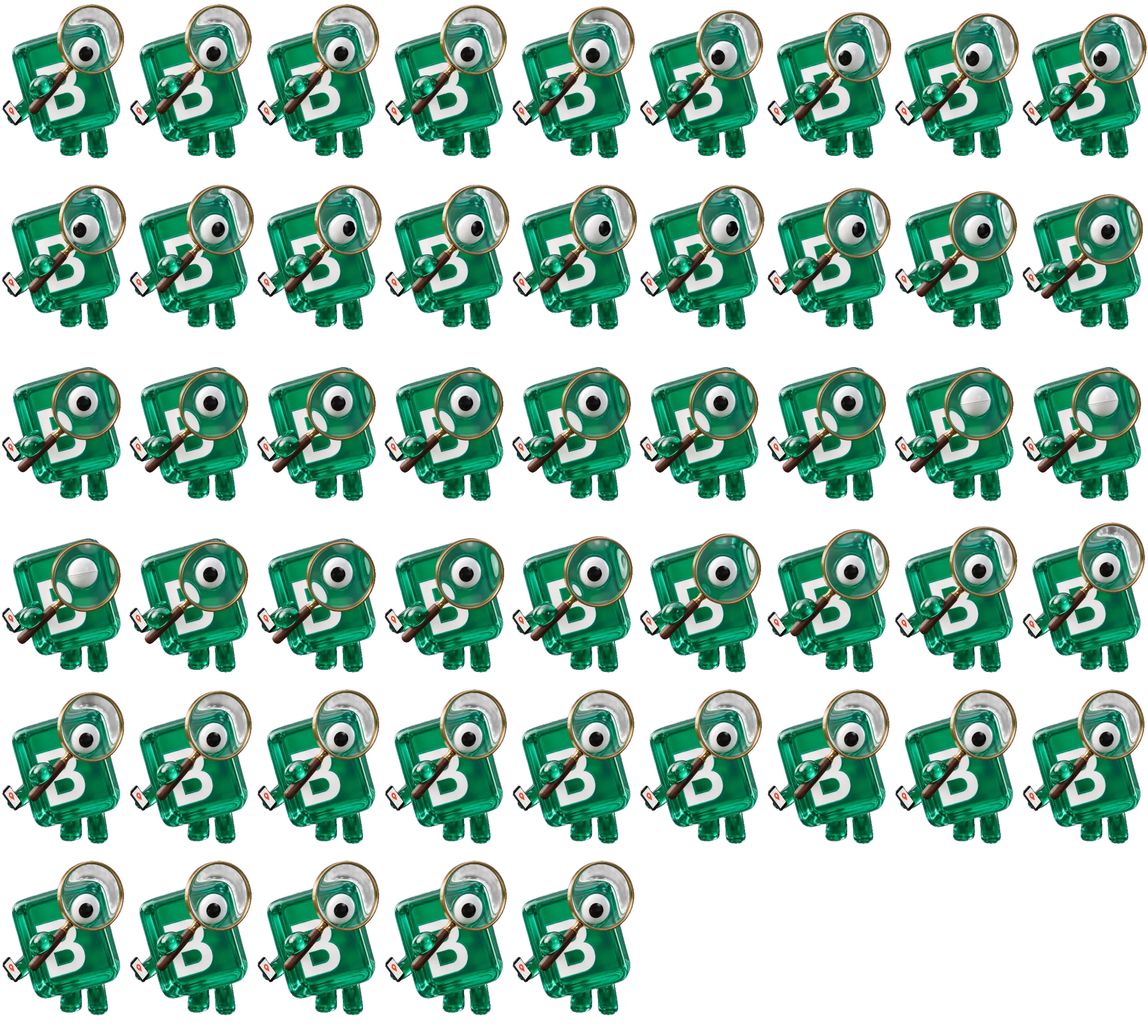
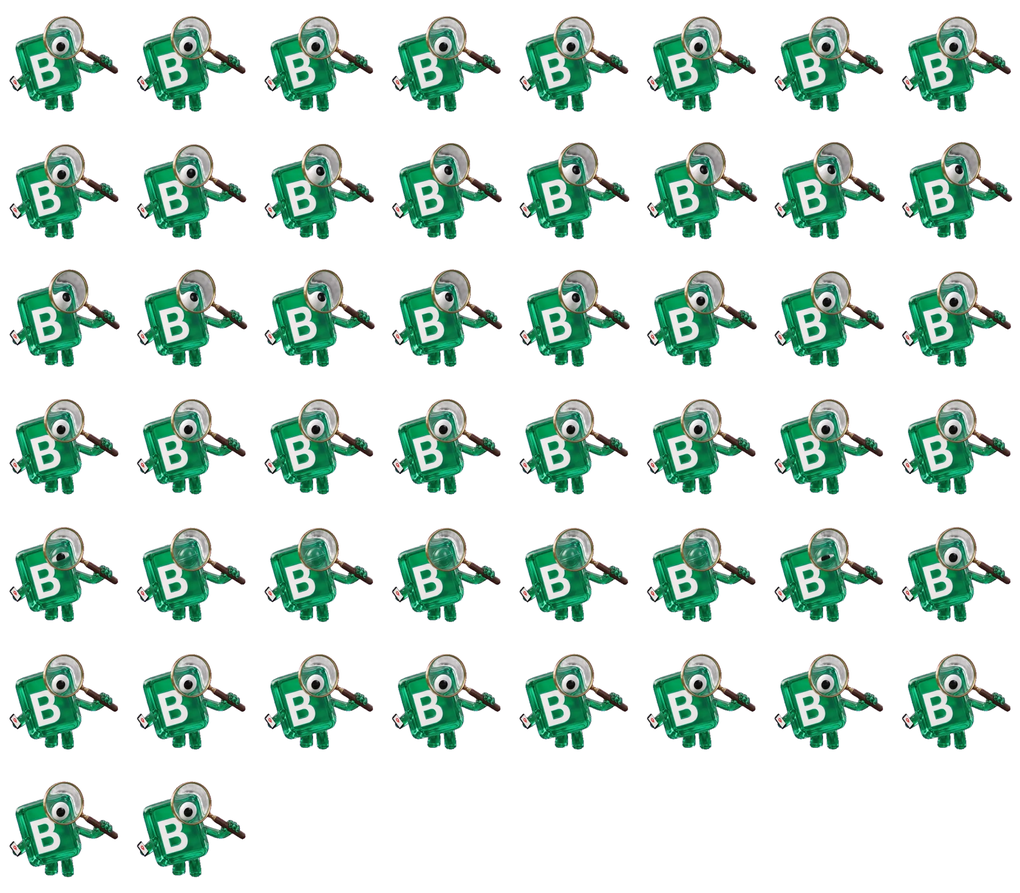
Luppscenen animerad från Mathias nya render (armarna rätt placerade)
Ny render från Mathias 2026-09-06 kväll: luppen hålls bredvid ansiktet i
höger hand, telefonen i vänster. Inmålat rutmönster bort med Higgsfields
bakgrundsborttagning, kvadratisk magentaduk, Seedance 2.5 med start- och
slutbild låsta (12,5 credits), ark 300×300 i 8 kolumner. Figuren en aning
bredare i sektionen eftersom 1:1-rutan har luft runt figuren.

diff --git a/web/app/(sajt)/page.js b/web/app/(sajt)/page.js
@@ -143,7 +143,7 @@ export default function Start() {
             <MaskotFilm
               className={styles.panelFigur}
               still="/img/maskot-film/forstoringsglas-still.webp"
-              ark={{ src: '/img/maskot-film/forstoringsglas.webp', fps: 10, ramar: 50, kolumner: 9, bredd: 300, hojd: 403 }}
+              ark={{ src: '/img/maskot-film/forstoringsglas.webp', fps: 10, ramar: 50, kolumner: 8, bredd: 300, hojd: 300 }}
               alt="Bahko-maskoten granskar en mobil med ett förstoringsglas"
             />
           </div>

diff --git a/web/app/(sajt)/page.module.css b/web/app/(sajt)/page.module.css
@@ -526,11 +526,12 @@
   position: relative;
 }
 
+/* Filmen är kvadratisk med luft runt figuren (1:1-klipp), därför bredare än de andra */
 .panelFigur {
   display: block;
-  width: clamp(200px, 22vw, 300px);
+  width: clamp(250px, 27vw, 370px);
   height: auto;
-  margin: 1.6rem 0 0 -10px;
+  margin: 1.2rem 0 0 -16px;
 }
 
 @media (max-width: 900px) {
